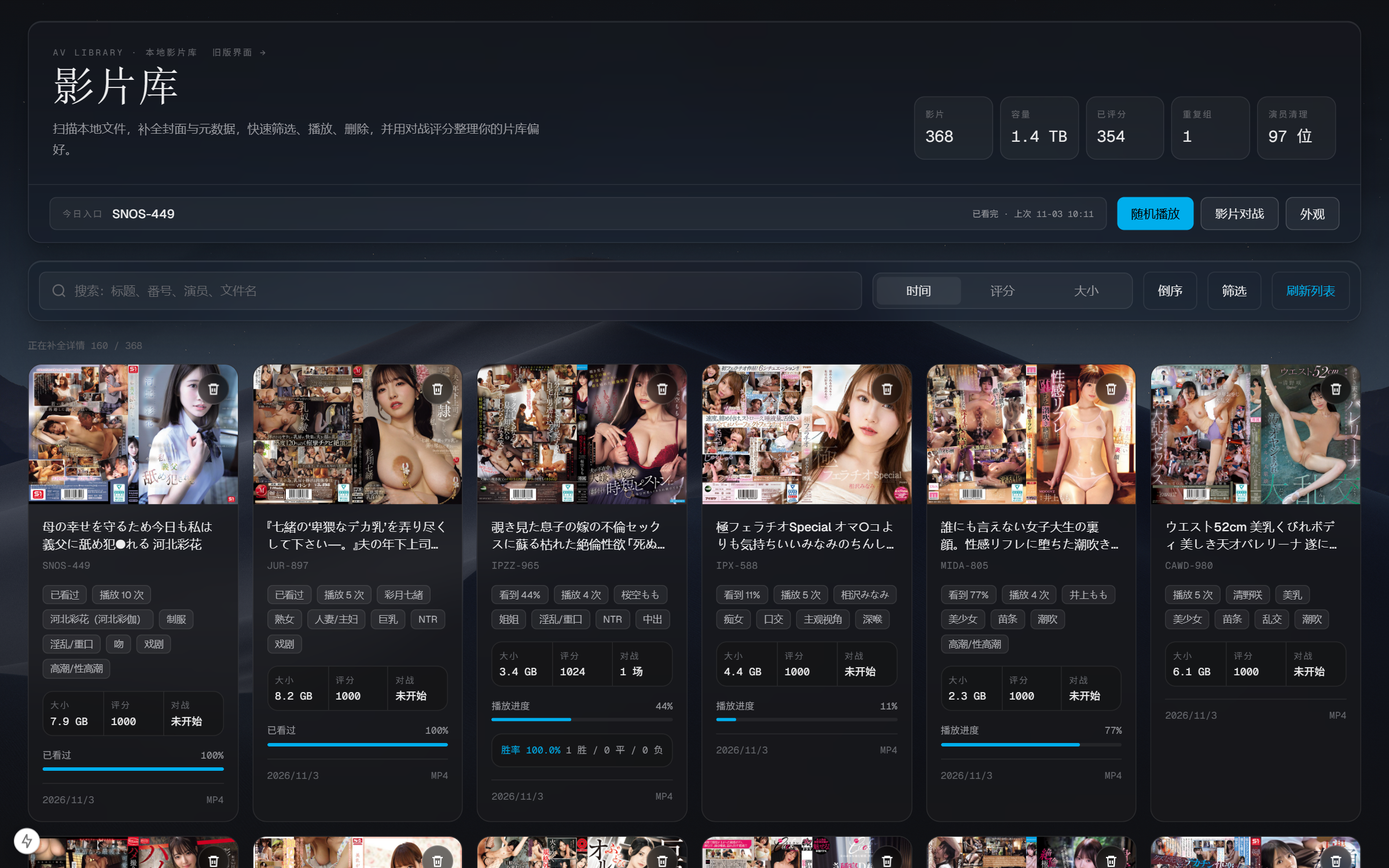
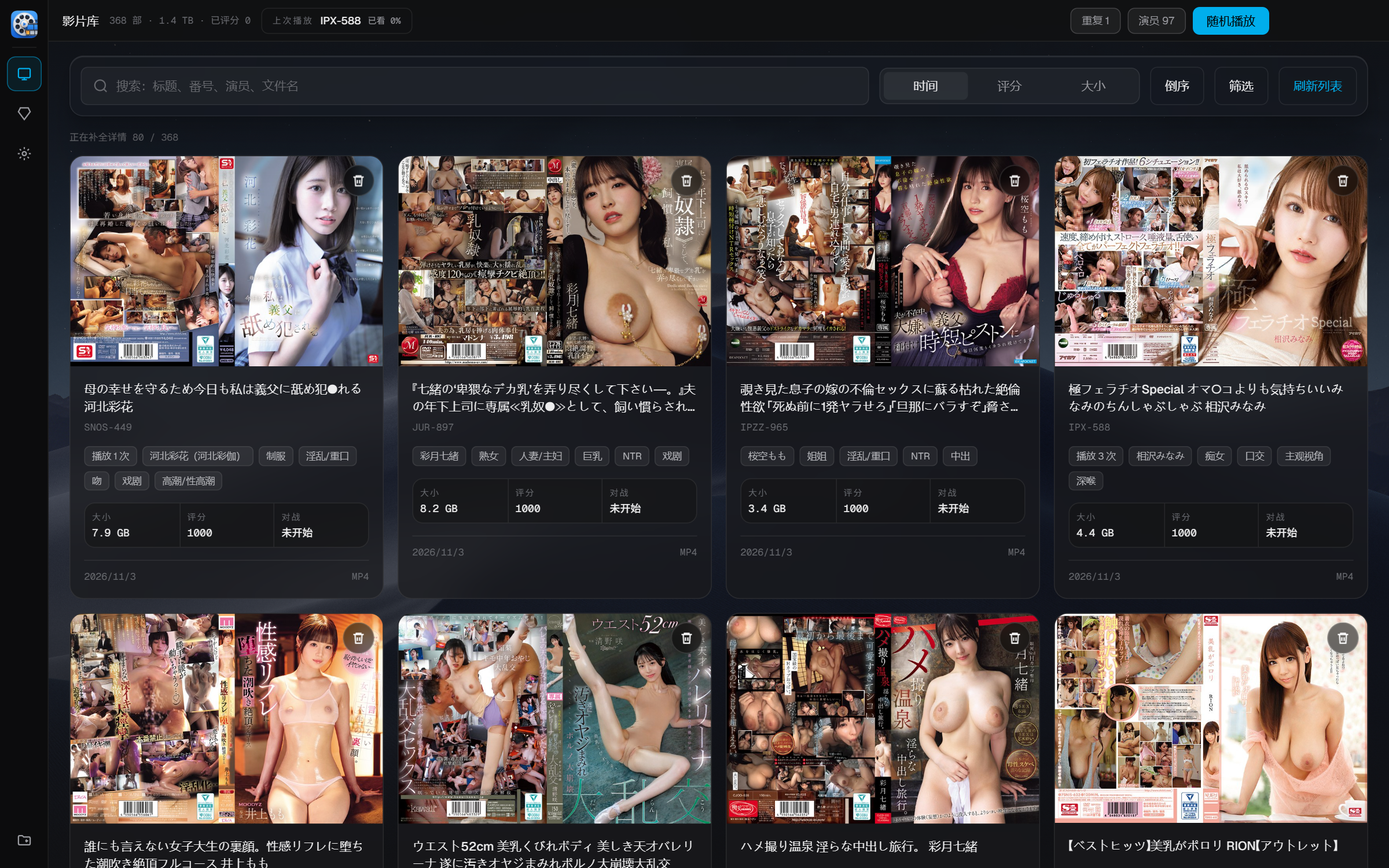
README 更新：侧栏版界面截图与使用说明（上次播放/更改目录/桌面打包）

diff --git a/scripts/readme-screenshots.js b/scripts/readme-screenshots.js
@@ -1,50 +1,19 @@
 const { chromium } = require("playwright");
 
-// 生成 README 截图 → docs/images/
+// README 截图：影片库主页（打包版服务 3100 端口）
 (async () => {
   const browser = await chromium.launch({
     executablePath: "C:\\Program Files\\Google\\Chrome\\Application\\chrome.exe",
   });
-  const fs = require("fs");
-  fs.mkdirSync("docs/images", { recursive: true });
   try {
+    require("fs").mkdirSync("docs/images", { recursive: true });
     const page = await browser.newPage({ viewport: { width: 1600, height: 1000 }, deviceScaleFactor: 1.5 });
-
-    // 1. 影片库主页
-    await page.goto("http://localhost:3000/movies-v2", { waitUntil: "domcontentloaded", timeout: 30000 });
+    await page.goto("http://127.0.0.1:3100/movies-v2", { waitUntil: "domcontentloaded", timeout: 30000 });
     await page.waitForTimeout(6000);
     await page.screenshot({ path: "docs/images/library.png" });
-
-    // 2. 外观面板
-    await page.locator("button", { hasText: "外观" }).first().click();
-    await page.waitForTimeout(1200);
-    await page.screenshot({ path: "docs/images/appearance.png" });
-    await page.keyboard.press("Escape");
-    await page.locator("button[aria-label='关闭外观设置']").first().click();
-    await page.waitForTimeout(500);
-
-    // 3. 播放器弹窗
-    const card = page.locator("article").first();
-    const box = await card.boundingBox();
-    await page.mouse.click(box.x + box.width / 2, box.y + 60);
-    await page.waitForTimeout(9000);
-    await page.mouse.move(20, 980); // 移开鼠标，验证 hover 门控后截图
-    await page.waitForTimeout(1000);
-    await page.screenshot({ path: "docs/images/player.png" });
-    // 关闭播放器（点 X 按钮，弹窗没有 Escape 处理）
-    await page.locator("button[aria-label='关闭播放器']").first().click();
-    await page.waitForTimeout(800);
-
-    // 4. 影片对战页
-    const duelBtn = page.locator("button", { hasText: "影片对战" }).first();
-    if (await duelBtn.count()) {
-      await duelBtn.click();
-      await page.waitForTimeout(6000);
-      await page.screenshot({ path: "docs/images/duel.png" });
-    }
-    console.log("README screenshots saved");
+    console.log("library screenshot saved");
   } catch (e) {
-    console.error("ERROR:", e.message.split("\n")[0]);
+    console.error("ERR:", e.message.split("\n")[0]);
   } finally {
     await browser.close();
   }

diff --git a/README.md b/README.md
@@ -2,15 +2,18 @@
 
 ![影片库界面](docs/images/library.png)
 
-一个运行在本地、管理私人影片库的 Next.js 应用：自动扫描本地视频文件，抓取封面与元数据，提供搜索筛选、流式播放、播放进度记忆、Elo 对战评分、重复影片整理，以及可自定义的玻璃风深色界面。
+一个运行在本地、管理私人影片库的 Windows 桌面应用（Electron）：自动扫描本地视频文件，抓取封面与元数据，提供搜索筛选、流式播放、播放进度记忆、Elo 对战评分、重复影片整理，以及可自定义的玻璃风深色界面。
 
 ## 功能特性
 
+- **桌面应用**：安装包即装即用；左侧图标侧栏导航（影片库 / 影片对战 / 外观），无边框窗口，顶栏可拖拽
 - **影库扫描**：扫描指定目录下的视频文件，按番号自动抓取封面、标题、演员、类型等元数据（封面缓存到本地）
-- **浏览与检索**：按时间 / 评分 / 文件大小排序；按标题、番号、演员、文件名搜索；演员与类型标签点选即筛；顶部指标卡一键进入重复影片 / 演员清理
+- **影片目录**：首次启动通过系统原生对话框选择影片文件夹；侧栏底部可随时更改，更改后自动重新扫描
+- **浏览与检索**：按时间 / 评分 / 文件大小排序；按标题、番号、演员、文件名搜索；演员与类型标签点选即筛
 - **播放**：内置流式播放器，播放器高度自动贴合视频真实比例（无黑边），独立控制条（播放/暂停、5s/10s 快进、进度、时间、音量、全屏）不遮挡画面；记忆播放进度、播完状态与观看次数
-- **影片对战**：随机抽取两部影片对比打分，基于 Elo 评分（含不确定度 sigma、新片优先、近期对局去重），支持悔棋；全程键盘快捷键
-- **外观自定义**：背景支持极光 / 自定义图片（本地上传原图直传服务端，不压缩、像素级清晰）或粘贴图片链接；可调浓度与每行列数；设置持久化在服务端，换浏览器、换端口、重启都不丢
+- **上次播放**：顶栏常驻最近观看的影片，点击直接续播
+- **影片对战**：随机抽取两部影片对比打分，基于 Elo 评分（含不确定度 sigma、新片优先、近期对局去重），支持悔棋，全程键盘快捷键
+- **外观自定义**：背景支持极光 / 自定义图片（本地上传原图直传服务端，不压缩、像素级清晰）或粘贴图片链接；可调浓度与每行列数；设置持久化，重启不丢
 - **重复整理**：识别同番号多版本文件，分组展示便于清理
 - **删除**：卡片或播放器内二次确认后直接删除磁盘文件
 - **代理自动探测**：抓取元数据 / 封面时自动检测本机代理（环境变量 → Windows 系统代理 → 常见端口探测），开了代理就走代理，没开就直连，无需任何配置
@@ -18,9 +21,10 @@
 ## 技术栈
 
 - Next.js (App Router) + React + TypeScript
+- Electron（桌面壳）+ electron-builder（NSIS 安装包）
 - Tailwind CSS（MARGIN 设计语言：发丝线 / Liquid Glass / 极光背景）
 - node:sqlite 本地数据库（影片元数据、评分、播放历史）
-- axios + cheerio 元数据抓取，Playwright 辅助
+- axios + cheerio 元数据抓取
 
 ## 快速开始
 
@@ -50,20 +54,24 @@
    npm run dev
    ```
 
-   生产模式可改用：
-
-   ```bash
-   npm run build && npm start
-   ```
-
 4. 打开浏览器访问 [http://localhost:3000](http://localhost:3000)，首次会要求输入影片目录路径（例如 `D:/Movies`），确认后自动进入影片库并开始扫描、抓取封面与元数据。影片数量多时首次扫描需要耐心等待。
+
+### 构建桌面安装包
+
+```bash
+npm run dist        # 完整流程：构建 + 打包，产出 dist/AV Manager Setup <版本>.exe
+npm run dist:fast   # 跳过安装包压缩，只产出 dist/win-unpacked（免安装目录，日常测试用）
+```
+
+安装包未做代码签名，首次运行如遇 SmartScreen 提示，选择“仍要运行”即可。
 
 ## 使用指南
 
 ### 影片库（主页）
 
-- 顶部指标卡：影片总数、总容量、已评分数量；**重复组** 与 **演员清理** 卡片可点击展开对应整理面板
-- 「今日入口」：显示最近观看的影片与进度，点击直接续播；「随机播放」随机开一部
+- 左侧侧栏：影片库 / 影片对战 / 外观 三个入口 + 更改影片目录
+- 顶栏：影片总数、总容量、已评分数量；**重复** 与 **演员** 清理入口（点击展开面板）；**随机播放**
+- 「上次播放」：顶栏显示最近观看的影片与进度，点击直接续播
 - 搜索框支持标题 / 番号 / 演员 / 文件名；演员、类型标签点选即筛
 - 每张卡片：封面、番号、已看进度、播放次数、容量、评分、文件信息；右上角垃圾桶图标删除（两次点击确认）
 
@@ -75,15 +83,15 @@
 
 ### 影片对战
 
-- 从「影片对战」进入，随机匹配两部影片（优先低场次、Elo 接近、近期未对战的对手），看完点胜负或平局
+- 从侧栏进入，随机匹配两部影片（优先低场次、Elo 接近、近期未对战的对手），看完点胜负或平局
 - 快捷键：`A` 左侧胜、`D` 右侧胜、`空格` 平局、`S` 跳过、`Z` 悔棋
 - Elo 评分与战绩展示在卡片底部，评分数据持久化在本地
 
 ### 外观设置
 
-- 「外观」按钮打开面板：背景模式（关 / 极光 / 图片）、浓度、每行列数（自动 / 4 列 / 6 列）
-- 背景图片支持本地上传（原图直传，服务端不做任何压缩）或直接粘贴图片链接
-- 所有外观设置保存在服务端 `userData/appearance.json`，跨浏览器、跨端口、重启均生效
+- 侧栏「外观」打开面板：背景模式（关 / 极光 / 图片）、浓度、每行列数（自动 / 4 列 / 6 列）
+- 背景图片支持本地上传（原图直传，不做任何压缩）或直接粘贴图片链接
+- 所有外观设置保存在服务端，跨浏览器、跨端口、重启均生效
 
 ### 重复影片 / 演员清理
 
@@ -91,9 +99,13 @@
 - **演员清理**：同一演员多番号写法变体分组，便于批量整理
 - 两类删除操作均需二次确认，直接作用于磁盘文件，请谨慎操作
 
+### 更改影片目录
+
+- 点击侧栏底部的文件夹图标，回到目录选择页，重新选择影片文件夹后自动重新扫描
+
 ## 数据目录
 
-所有数据都在 `userData/` 下，删除即完全重置：
+所有数据都在用户数据目录下（Windows 为 `%APPDATA%\av-manager\userData`），删除即完全重置：
 
 | 文件 / 目录 | 内容 |
 | --- | --- |
